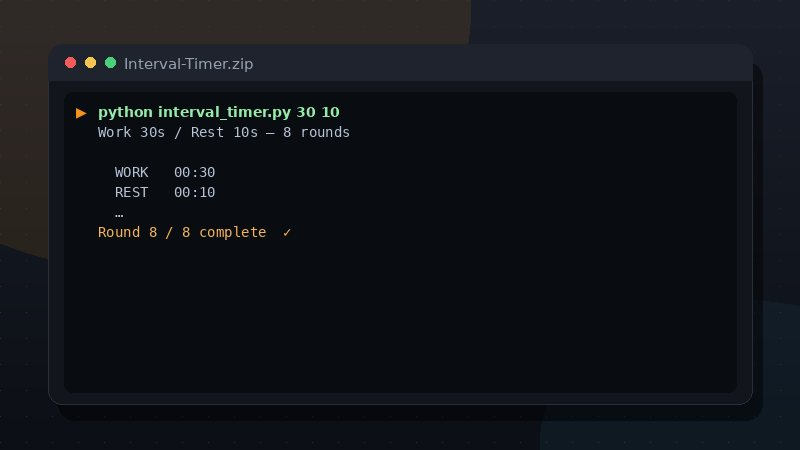
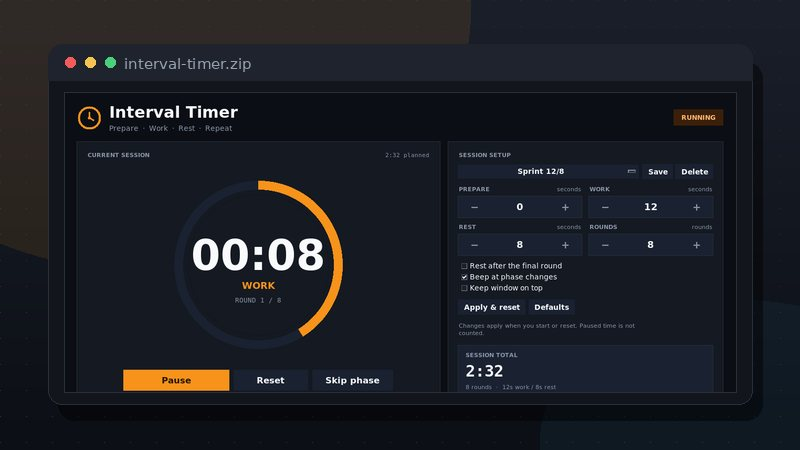
Rebuild Interval Timer as a Python desktop kit

diff --git a/previews/interval-timer.html b/previews/interval-timer.html
@@ -26,32 +26,13 @@
     font-size:clamp(22px,5vw,54px); font-weight:900; letter-spacing:.06em; color:rgba(247,147,26,.09); transform:rotate(-20deg); }
   .shotframe { border-radius:12px; overflow:hidden; border:1px solid var(--border); background:#000; }
   .shot { width:100%; display:block; }
-  .tablewrap { overflow-x:auto; border:1px solid var(--border); border-radius:12px; }
-  table.xls { border-collapse:collapse; width:100%; font-size:13.5px; }
-  table.xls th, table.xls td { border-bottom:1px solid var(--border-soft); border-right:1px solid var(--border-soft); padding:8px 11px; text-align:left; white-space:nowrap; }
-  table.xls th { background:var(--card-2); color:var(--accent-2); font-weight:650; }
-  table.xls tr:nth-child(even) td { background:rgba(255,255,255,.015); }
-  .sheetpills { display:flex; align-items:center; gap:6px; flex-wrap:wrap; margin-bottom:12px; }
-  .pill.sm { font-size:11px; padding:3px 9px; }
-  .docx h3 { margin:18px 0 4px; }
-  .stage h3 { font-size:17px; }
-  .stage p { color:#c3cad6; }
-  .slides { display:grid; grid-template-columns:repeat(auto-fit,minmax(220px,1fr)); gap:14px; }
-  .slide { background:var(--card-2); border:1px solid var(--border); border-radius:12px; padding:16px; }
-  .slide-n { font-size:11px; color:var(--accent-2); font-weight:700; letter-spacing:.08em; text-transform:uppercase; }
-  .slide-t { font-weight:700; margin:8px 0 8px; }
-  .slide ul { margin:0; padding-left:18px; color:var(--muted); font-size:14px; }
-  .filelist ul { list-style:none; padding:0; margin:8px 0 0; display:flex; flex-wrap:wrap; gap:8px; }
-  .filelist li code { font-size:12px; background:var(--card-2); border:1px solid var(--border); border-radius:7px; padding:4px 9px; color:#c3cad6; }
-  .codewrap { margin-top:16px; border:1px solid var(--border); border-radius:12px; overflow:hidden; }
-  .codebar { background:var(--card-2); padding:8px 13px; font-family:var(--mono); font-size:12px; color:var(--accent-2); border-bottom:1px solid var(--border); }
-  pre.code { margin:0; padding:16px; overflow-x:auto; font-family:var(--mono); font-size:12.5px; line-height:1.55; color:#c3cad6; background:#0c0e13; }
-  .small { font-size:12.5px; }
+  .pfoot { margin-top:20px; text-align:center; }
   .plock { margin-top:22px; text-align:center; background:linear-gradient(140deg,rgba(247,147,26,.15),rgba(255,180,84,.05));
     border:1px solid rgba(247,147,26,.4); border-radius:16px; padding:30px 24px; }
   .plock h2 { margin:0 0 8px; }
   .plock p { color:var(--muted); max-width:520px; margin:0 auto 18px; }
-  .pfoot { margin-top:20px; text-align:center; }
+  .pfeat { display:flex; flex-wrap:wrap; gap:8px; margin-top:14px; }
+  .pfeat span { font-size:12px; color:#c3cad6; border:1px solid var(--border); background:var(--bg-soft); border-radius:999px; padding:5px 10px; }
 </style>
 </head>
 <body data-id="interval-timer">
@@ -64,42 +45,21 @@
   <div class="phead">
     <span class="kicker">Preview &middot; Fitness Sports</span>
     <h1>Interval Timer (Python)</h1>
-    <p class="sub">A HIIT timer that beeps at every change.</p>
-    <div class="pmeta"><span class="pill">Python · .zip</span><span class="price">$8.99 <small style="font-size:12px;color:var(--muted);font-weight:500">one-time</small></span></div>
+    <p class="sub">A big, focused work/rest timer for your desktop.</p>
+    <div class="pmeta"><span class="pill">Python &middot; .zip</span><span class="price">$8.99 <small style="font-size:12px;color:var(--muted);font-weight:500">one-time</small></span></div>
   </div>
   <div class="stage" id="stage">
-    <div class="filelist"><span class="muted small">Files in the bundle</span><ul><li><code>interval-timer/interval_timer.py</code></li><li><code>interval-timer/README.md</code></li></ul></div><div class="codewrap"><div class="codebar">interval-timer/interval_timer.py</div><pre class="code">#!/usr/bin/env python3
-# Interval Timer - a HIIT / workout interval timer in your terminal.
-import argparse
-import sys
-import time
-
-
-def countdown(seconds, label):
-    for remaining in range(seconds, 0, -1):
-        m, s = divmod(remaining, 60)
-        sys.stdout.write(&quot;\r%s  %02d:%02d &quot; % (label, m, s))
-        sys.stdout.flush()
-        time.sleep(1)
-    sys.stdout.write(&quot;\r%s  done!    \n&quot; % label)
-    sys.stdout.write(&quot;\a&quot;)
-    sys.stdout.flush()
-
-
-def main():
-    ap = argparse.ArgumentParser(description=&quot;Interval / HIIT timer.&quot;)
-    ap.add_argument(&quot;--work&quot;, type=int, default=30, help=&quot;work seconds&quot;)
-    ap.add_argument(&quot;--rest&quot;, type=int, default=15, help=&quot;rest seconds&quot;)
-    ap.add_argument(&quot;--rounds&quot;, type=int, default=8)
-    ap.add_argument(&quot;--prepare&quot;, type=int, default=5, help=&quot;countdown before start&quot;)</pre></div><p class="muted small">Preview only — the full, runnable source ships after purchase.</p>
+    <div class="shotframe"><img class="shot" src="img/interval-timer.png" alt="Interval Timer desktop app with an active work phase, setup controls and session log" loading="eager"></div>
+    <div class="pfeat"><span>Drift-resistant timing</span><span>Saved presets</span><span>CSV session log</span><span>Works offline</span></div>
+    <p class="muted small">A desktop app for Windows, macOS and Linux. Runs with Python 3 and Tkinter, with no third-party packages.</p>
     <div class="wm">PREVIEW</div>
   </div>
   <div class="plock" id="lock" hidden>
     <h2>Preview ended</h2>
-    <p>That was your one-time 12-second preview. This page won't play again on this device — unlock the full product to keep going.</p>
+    <p>That was your one-time 12-second preview. This page won't play again on this device — unlock the full download to keep the app.</p>
     <a class="btn" href="../product.html?id=interval-timer" target="_top">Unlock full version &middot; $8.99</a>
   </div>
-  <p class="pfoot muted">This is a watermarked preview. The complete file is delivered instantly after your payment is verified on-chain.</p>
+  <p class="pfoot muted">This is a watermarked preview. The complete ZIP is delivered instantly after your payment is verified on-chain.</p>
 </div>
 <script>
 (function () {

diff --git a/assets/products.js b/assets/products.js
@@ -1891,12 +1891,15 @@ window.PRODUCTS = [
     "category": "Fitness-Sports",
     "priceUsd": 8.99,
     "format": "Python \u00b7 .zip",
-    "tagline": "A HIIT timer that beeps at every change.",
-    "summary": "A terminal interval timer with configurable work, rest, rounds and prepare countdown.",
+    "tagline": "A focused work/rest timer for HIIT, Tabata and sprint intervals.",
+    "summary": "A polished desktop interval timer with a large countdown ring, saved presets, accurate monotonic timing, sound cues and a CSV session log. Pure Python and Tkinter, no third-party dependencies.",
     "bullets": [
-      "Configurable work / rest",
-      "Round tracking",
-      "Audible beep at changes"
+      "Prepare, work, rest and rounds with an optional final rest",
+      "Drift-resistant countdown, pause, skip and fullscreen controls",
+      "Tabata, HIIT, Sprint, EMOM and saved custom presets",
+      "Sound cues, always-on-top mode and keyboard shortcuts",
+      "Session log with CSV export and automatic saved settings",
+      "Python 3 + Tkinter, offline, zero third-party packages"
     ],
     "file": "products/Interval-Timer.zip"
   },
